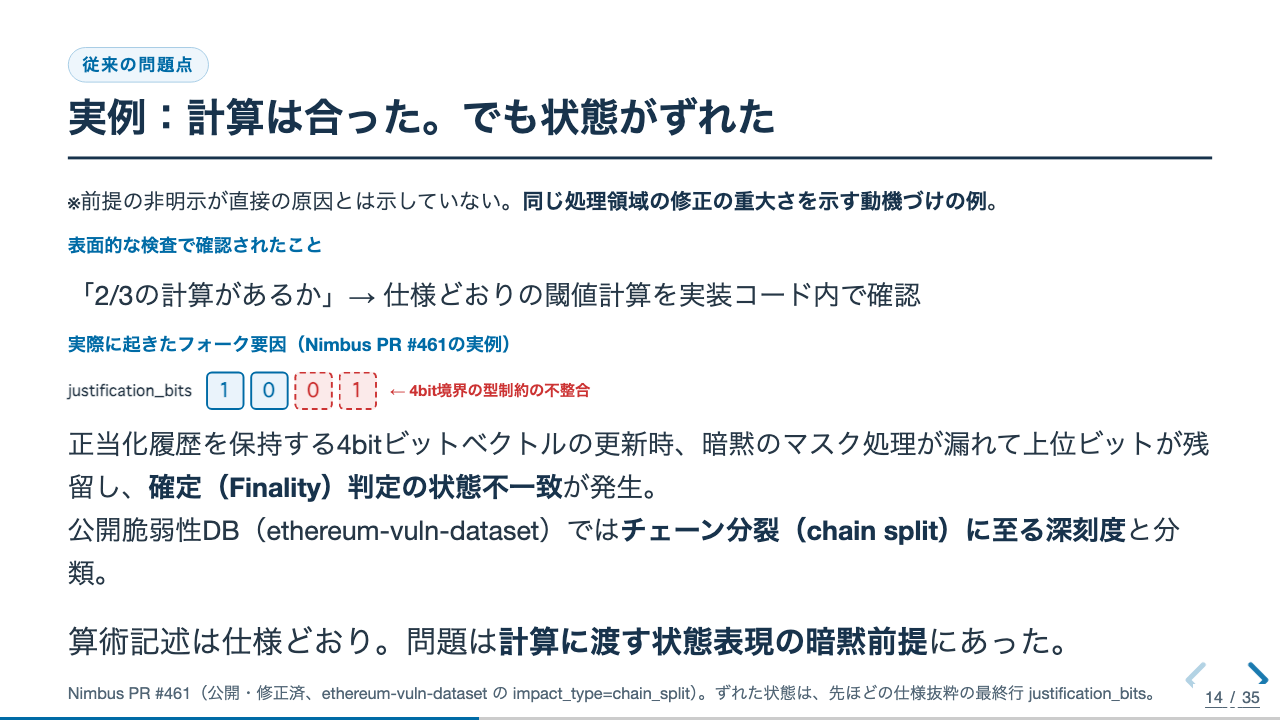
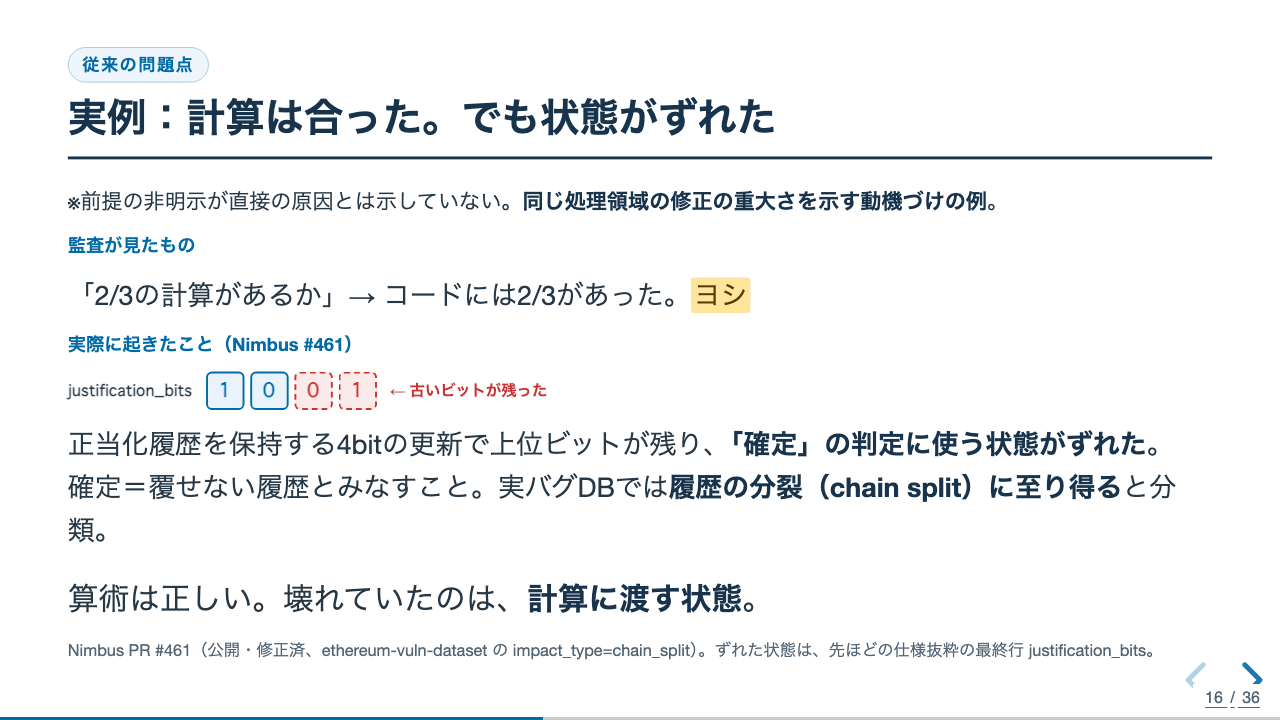
refactor(slides): Nimbus実例スライドをBeforeの分かりやすい表現へ復元

diff --git a/slides.md b/slides.md
@@ -374,23 +374,23 @@ Note:
 ## 実例：計算は合った。でも状態がずれた
 
 <p class="small">※前提の非明示が直接の原因とは示していない。<strong>同じ処理領域の修正の重大さを示す動機づけの例</strong>。</p>
-<p class="label">表面的な検査で確認されたこと</p>
-<p>「2/3の計算があるか」→ 仕様どおりの閾値計算を実装コード内で確認</p>
-<p class="label">実際に起きたフォーク要因（Nimbus PR #461の実例）</p>
-<div class="bitstrip"><span class="bitname">justification_bits</span><div class="bit">1</div><div class="bit">0</div><div class="bit stale">0</div><div class="bit stale">1</div><span class="stale-label">← 4bit境界の型制約の不整合</span></div>
-<p>正当化履歴を保持する4bitビットベクトルの更新時、暗黙のマスク処理が漏れて上位ビットが残留し、<strong>確定（Finality）判定の状態不一致</strong>が発生。<br>公開脆弱性DB（ethereum-vuln-dataset）では<strong>チェーン分裂（chain split）に至る深刻度</strong>と分類。</p>
-<p class="message">算術記述は仕様どおり。問題は<strong>計算に渡す状態表現の暗黙前提</strong>にあった。</p>
+<p class="label">監査が見たもの</p>
+<p>「2/3の計算があるか」→ コードには2/3があった。<mark>ヨシ</mark></p>
+<p class="label">実際に起きたこと（Nimbus #461）</p>
+<div class="bitstrip"><span class="bitname">justification_bits</span><div class="bit">1</div><div class="bit">0</div><div class="bit stale">0</div><div class="bit stale">1</div><span class="stale-label">← 古いビットが残った</span></div>
+<p>正当化履歴を保持する4bitの更新で上位ビットが残り、<strong>「確定」の判定に使う状態がずれた</strong>。<br>確定＝覆せない履歴とみなすこと。実バグDBでは<strong>履歴の分裂（chain split）に至り得る</strong>と分類。</p>
+<p class="message">算術は正しい。壊れていたのは、<strong>計算に渡す状態</strong>。</p>
 <p class="source">Nimbus PR #461（公開・修正済、ethereum-vuln-dataset の impact_type=chain_split）。ずれた状態は、先ほどの仕様抜粋の最終行 justification_bits。</p>
 
 Note:
-監査が見たのは「2/3の計算があるか」で、コードには確かに2/3の算術式が存在していました。
-しかし実際に起きたのは、計算に渡す状態データの境界における不整合です。
+監査が見たのは「2/3の計算があるか」で、コードには確かに2/3がありました。
+実際に起きたのは別の場所のずれです。
 Nimbusの修正#461は、正当化履歴を保持する4ビット、justification_bitsの更新で上位ビットが残り、確定判定に使う状態がずれた実バグです。
 このjustification_bitsは、先ほどの仕様抜粋の最終行で更新していた状態そのものです。
 公開データセットではチェーン分岐に至り得ると分類されています。
-重要なのは、算術の計算式自体が誤っていたわけではなく、型境界や状態更新の暗黙の前提がコードと仕様の間で共有されていなかった点です。
+重要なのは、算術の計算式自体が誤っていたわけではなく、計算に渡す状態データそのものが壊れていた点です。
 なお前提の非明示がこのバグの原因だったとは示していません。
-データセットの分類ラベルが同じ処理領域に位置するという、位置的な共起関係の例示です。
+データセットの分類ラベルが同じ処理領域に位置するという、位置的な共起だけです。
 分母のずれも、状態のずれも、仕様の手順記述の外側にある「前提条件」に起因します。
 では、仕様どおりに作っても前提が満たされないと何が起きるのか、保証の範囲を見ます。
 
